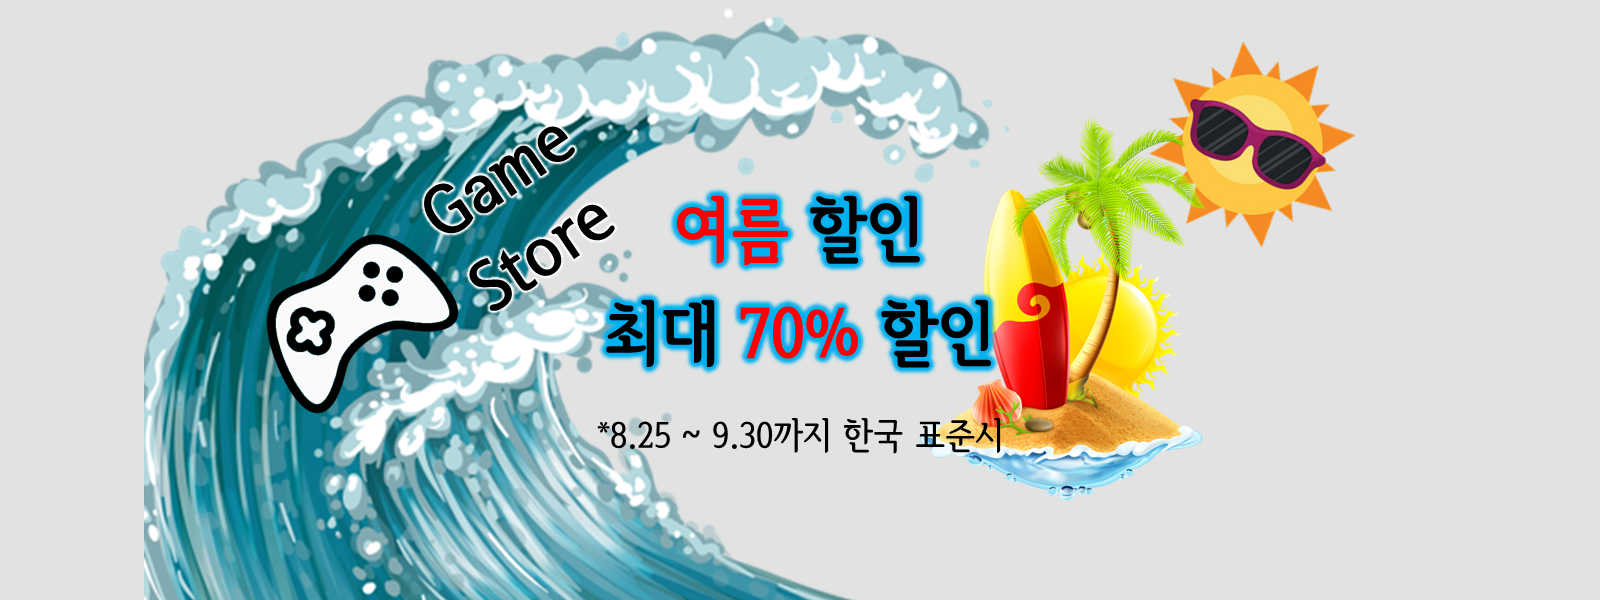
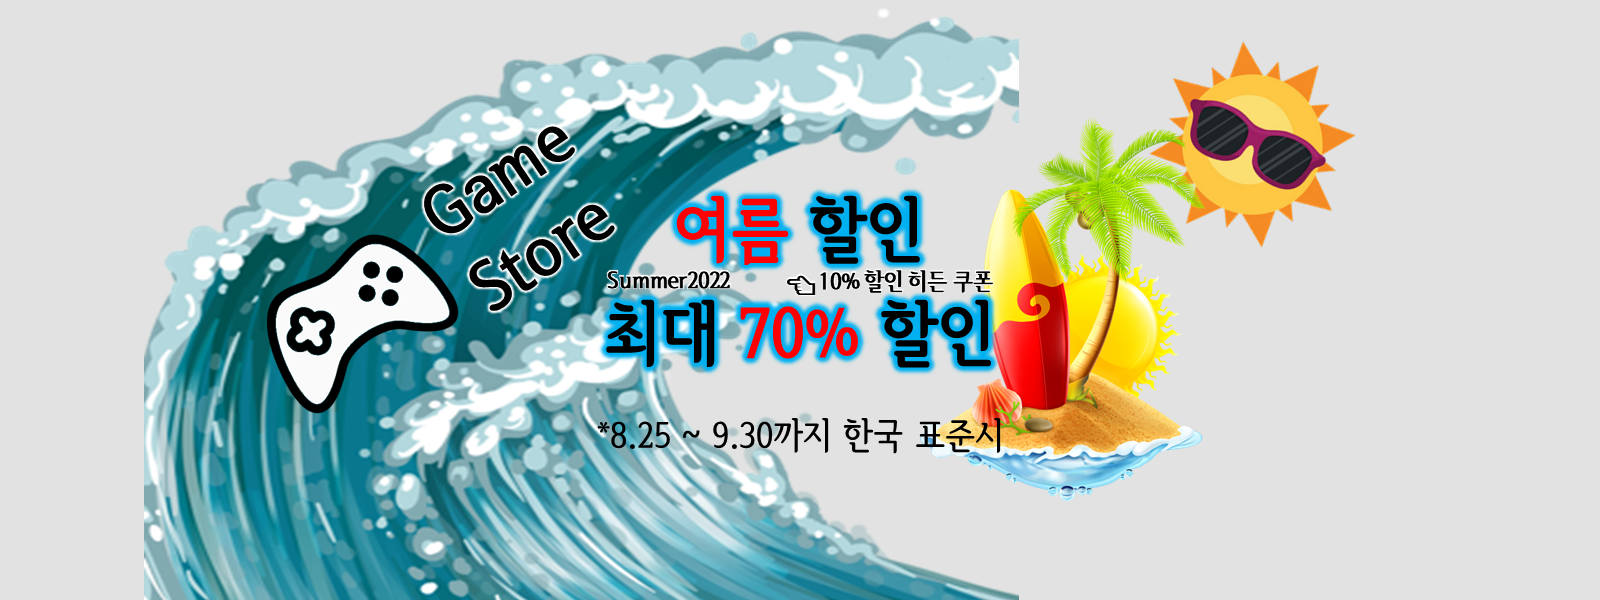
게임 태그 추가, 배너 수정

Changed region(s): [[0.0938, 0.03, 0.6562, 1.0]]

diff --git a/gamestore/src/function/GameFilter.js b/gamestore/src/function/GameFilter.js
@@ -3,12 +3,12 @@ import { useEffect, useState } from "react"
 /* 게임 필터 */
 const GameFilter = (props) => {
   const { setIsFilter, setIsTagListOn } = props
-  const gameTag = ['오픈월드', '멀티플레이', '협동', '액션', '공포', '좀비', '어드벤처', '스포츠', 'MMORPG', 'FPS']
+  const gameTag = ["오픈월드", "멀티플레이", "협동", "액션", "공포", "좀비", "어드벤처", "스포츠", "리듬", "인디", "MMORPG", "FPS"]
   const [checkedTag, setCheckedTag] = useState({ "오픈월드": false, "멀티플레이": false, "협동": false, "액션": false, "공포": false, "좀비": false, "어드벤처": false, "스포츠": false, "리듬": false, "인디": false, "MMORPG": false, "FPS": false })
 
   /* 필터 값 가져오기 */
   const updateFilter = () => {
-    const tempTag = ['오픈월드', '멀티플레이', '협동', '액션', '공포', '좀비', '어드벤처', '스포츠', 'MMORPG', 'FPS']
+    const tempTag = ["오픈월드", "멀티플레이", "협동", "액션", "공포", "좀비", "어드벤처", "스포츠", "리듬", "인디", "MMORPG", "FPS"]
     let temp = {}
     for (let i = 0; i < tempTag.length; i++) {
       temp[tempTag[i]] = document.getElementById(tempTag[i]).checked

diff --git a/gamestore/src/home/main/GameFlexBanner.js b/gamestore/src/home/main/GameFlexBanner.js
@@ -1,14 +1,16 @@
 import { Carousel } from "flowbite-react";
 import summerDeal from '../../img/summer-deal.png'
 import newOrder from "../../img/new-order.png"
+import welcome from "../../img/welcome2022.png"
 import React from "react";
 
 /* 사이트 배너 */
 const GameFlexBanner = () => {
   return (
     <div className="h-56 sm:h-80 lg:h-96 xl:h-[26rem] 3xl:m-5 2xl:mt-5 3xl:mt-6">
-      <Carousel slideInterval={8000}>
+      <Carousel slideInterval={6000}>
         <img className="object-cover h-full" src={summerDeal} alt="summer-sale"/>
+        <img className="object-cover h-full" src={welcome} alt="welcome"/>
         <img className="object-cover h-full" src={newOrder} alt="new-order"/>
       </Carousel>
     </div>

diff --git a/gamestore/src/home/main/GameFlex.js b/gamestore/src/home/main/GameFlex.js
@@ -14,7 +14,7 @@ const GameFlex = (props) => {
   const location = useLocation()
   const searchParams = new URLSearchParams(location.search);
   const keyword = searchParams.get('keyword')
-  const gameTag = ['오픈월드', '멀티플레이', '협동', '액션', '공포', '좀비', '어드벤처', '스포츠', 'MMORPG', 'FPS']
+  const gameTag = ["오픈월드", "멀티플레이", "협동", "액션", "공포", "좀비", "어드벤처", "스포츠", "리듬", "인디", "MMORPG", "FPS"]
   const [sortState, setsortState] = useState('sortAbc')
   const [isFilter, setIsFilter] = useState(false)
   const [totalPage, setTotalPage] = useState(100)

diff --git a/gamestore/src/home/App.js b/gamestore/src/home/App.js
@@ -10,7 +10,7 @@ import { getCookie, removeCookie } from '../function/Cookie';
 
 function App() {
   const location = useLocation()
-  const version = 'v1'
+  const version = 'v2'
   const [gameData, setGameData] = useState(GameList)
   const [cart, setCart] = useState(0)
   const [sideIsOpen, setSideIsOpen] = useState(false)

diff --git a/gamestore/src/function/SearchResult.js b/gamestore/src/function/SearchResult.js
@@ -11,6 +11,7 @@ const SearchResult = (props) => {
   /* 상세보기 */
   const toDetail = (item) => {
     document.body.style.overflow = 'hidden'
+    sessionStorage.setItem('FirstPage', false)
     navigate(`/games/${item.게임명}/?keyword=${keyword}`);
   }
 
